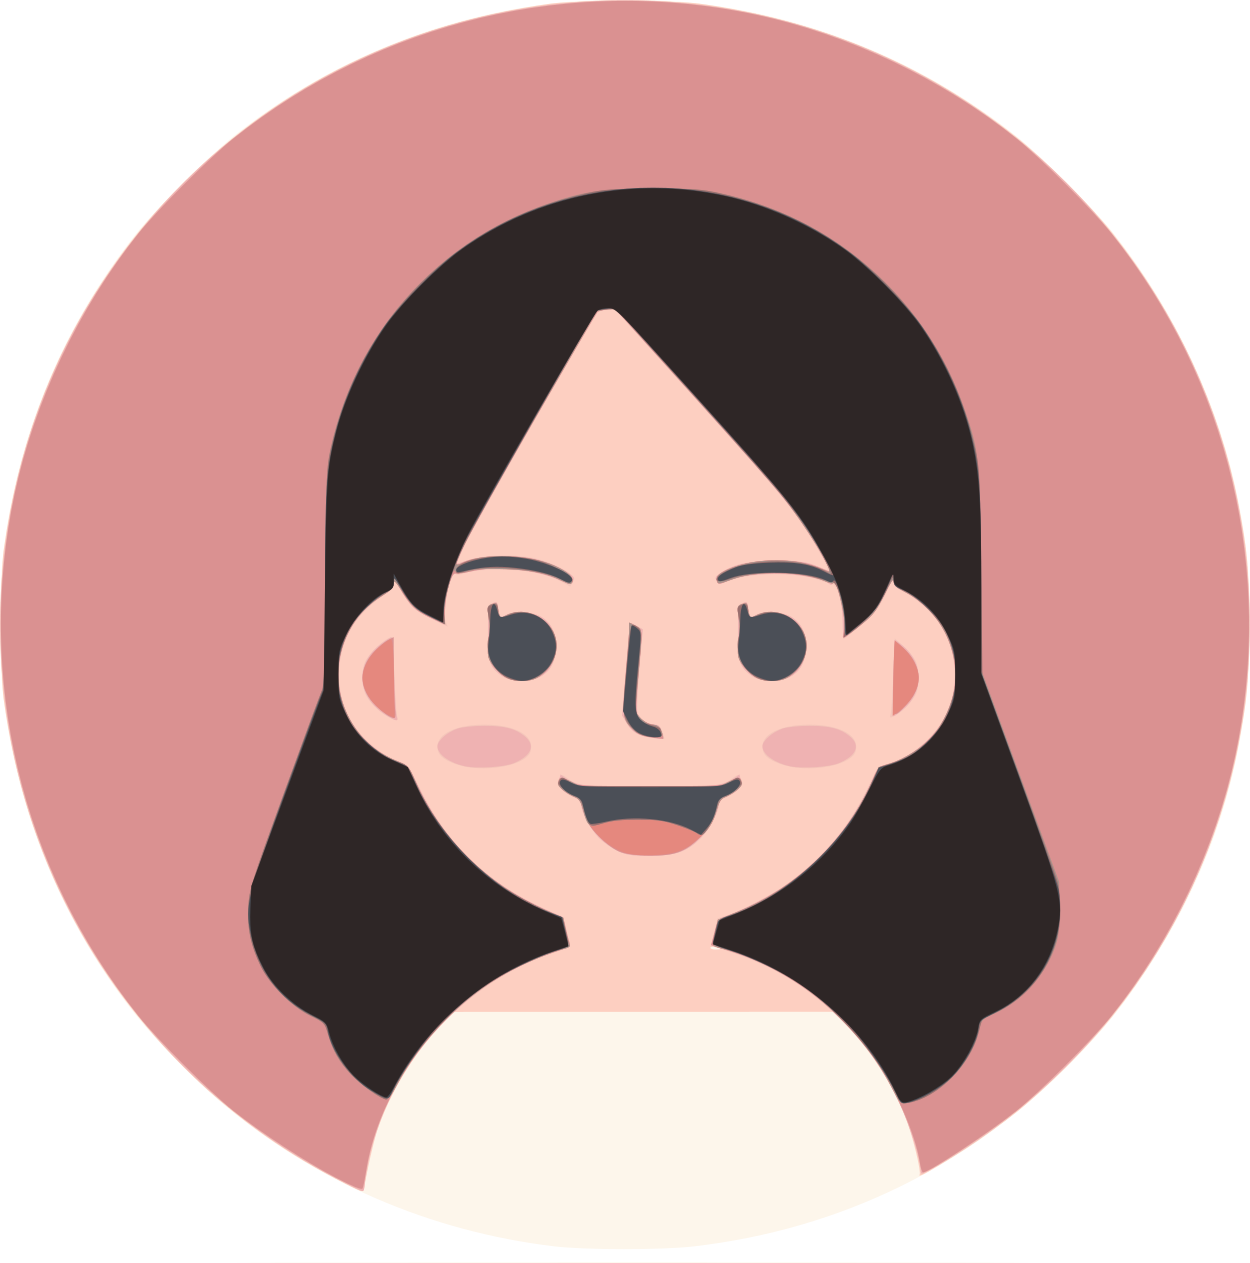
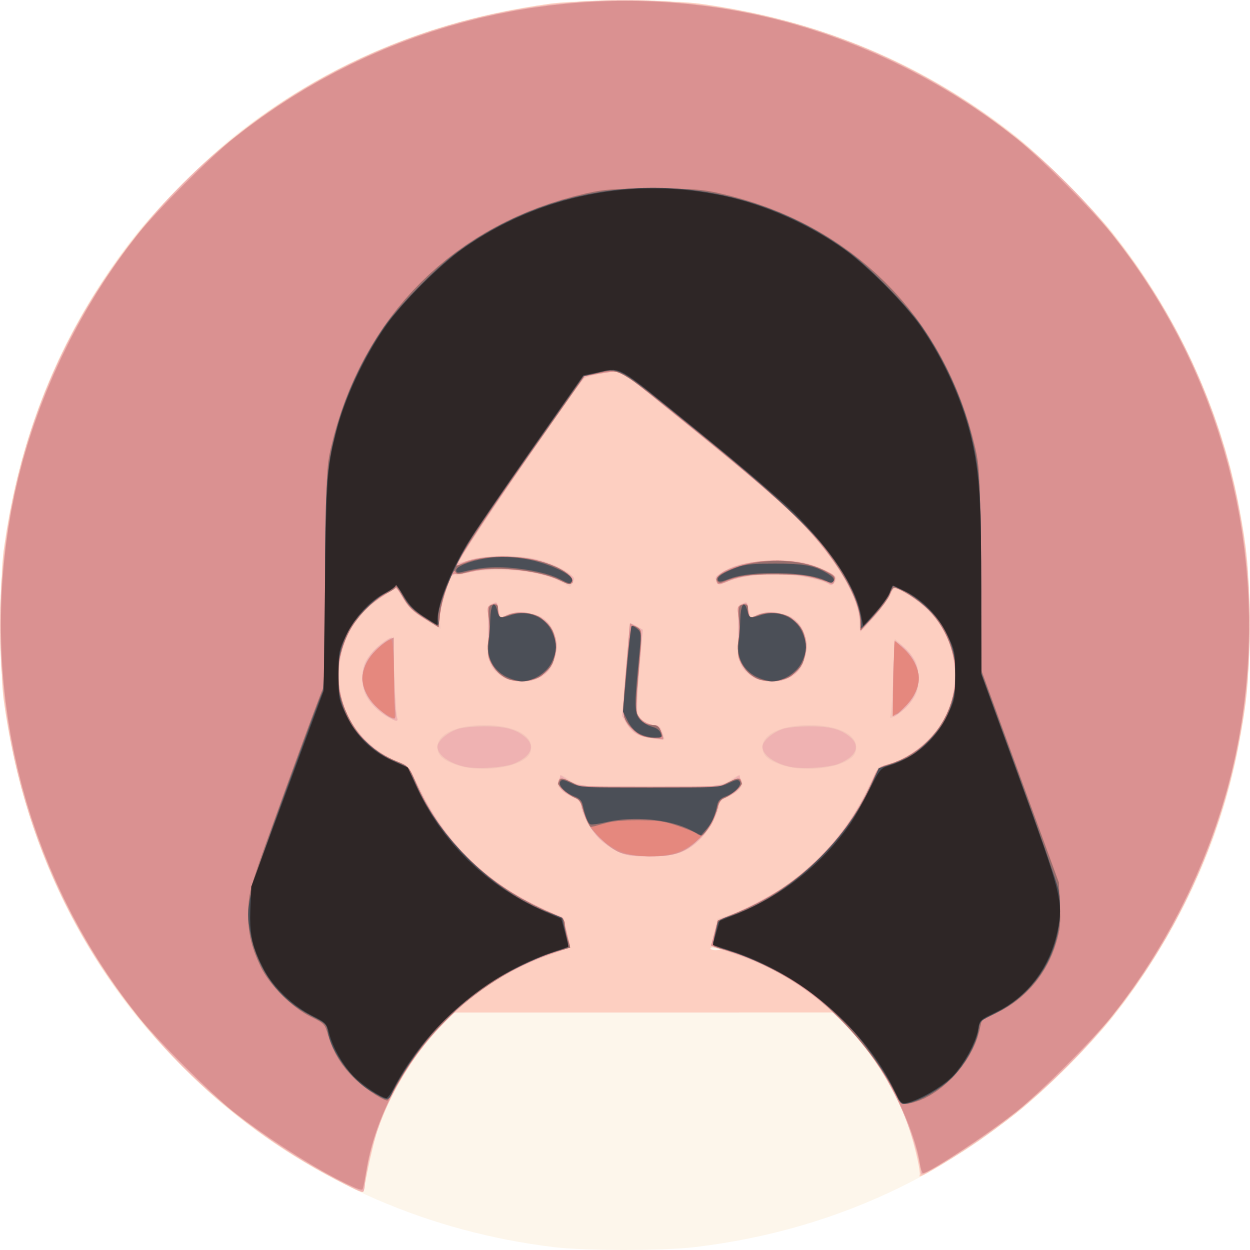
Joy style minor changed

diff --git a/src/style/Joy.scss b/src/style/Joy.scss
@@ -65,10 +65,10 @@ $cloth:#fff8ed;
 .face {
   @include border(100px);
   z-index: 20;
-  top: 49px;
+  top: 59px;
   left: 70px;
   width: 80px;
-  height: 100px;
+  height: 90px;
   background: $skin;
   &:after{
     content: "";
@@ -162,8 +162,8 @@ $cloth:#fff8ed;
   &:before {
     position: absolute;
     content: "";
-    left: -6px;
-    top: 7px;
+    left: -5px;
+    top: 9px;
     width: 30px;
     height: 58px;
     border-left: 15px solid $hair;
@@ -171,13 +171,13 @@ $cloth:#fff8ed;
     border-bottom: 1px solid transparent;
     border-right: 1px solid transparent;
     border-radius:0 20px;
-    transform: rotate(30deg);
+    transform: rotate(35deg);
   }
   &:after{
     position: absolute;
     content: "";
-    left: 18px;
-    top: 3px;
+    left: 17px;
+    top: 5px;
     width: 30px;
     height: 65px;
     border-right: 20px solid $hair;
@@ -185,7 +185,7 @@ $cloth:#fff8ed;
     border-bottom: 1px solid transparent;
     border-left: 1px solid transparent;
     border-radius:30px 0;
-    transform: rotate(-42deg);
+    transform: rotate(-51deg);
   }
 }
 .fringe.left{

diff --git a/src/style/Joy.css b/src/style/Joy.css
@@ -59,10 +59,10 @@
   -webkit-border-radius: 100px;
   -moz-border-radius: 100px;
   z-index: 20;
-  top: 49px;
+  top: 59px;
   left: 70px;
   width: 80px;
-  height: 100px;
+  height: 90px;
   background: #ffd1c2;
 }
 /* line 73, Joy.scss */
@@ -170,8 +170,8 @@
 #Joy .fringebase:before {
   position: absolute;
   content: "";
-  left: -6px;
-  top: 7px;
+  left: -5px;
+  top: 9px;
   width: 30px;
   height: 58px;
   border-left: 15px solid #2f2727;
@@ -179,14 +179,14 @@
   border-bottom: 1px solid transparent;
   border-right: 1px solid transparent;
   border-radius: 0 20px;
-  transform: rotate(30deg);
+  transform: rotate(35deg);
 }
 /* line 176, Joy.scss */
 #Joy .fringebase:after {
   position: absolute;
   content: "";
-  left: 18px;
-  top: 3px;
+  left: 17px;
+  top: 5px;
   width: 30px;
   height: 65px;
   border-right: 20px solid #2f2727;
@@ -194,7 +194,7 @@
   border-bottom: 1px solid transparent;
   border-left: 1px solid transparent;
   border-radius: 30px 0;
-  transform: rotate(-42deg);
+  transform: rotate(-51deg);
 }
 /* line 191, Joy.scss */
 #Joy .fringe.left {
